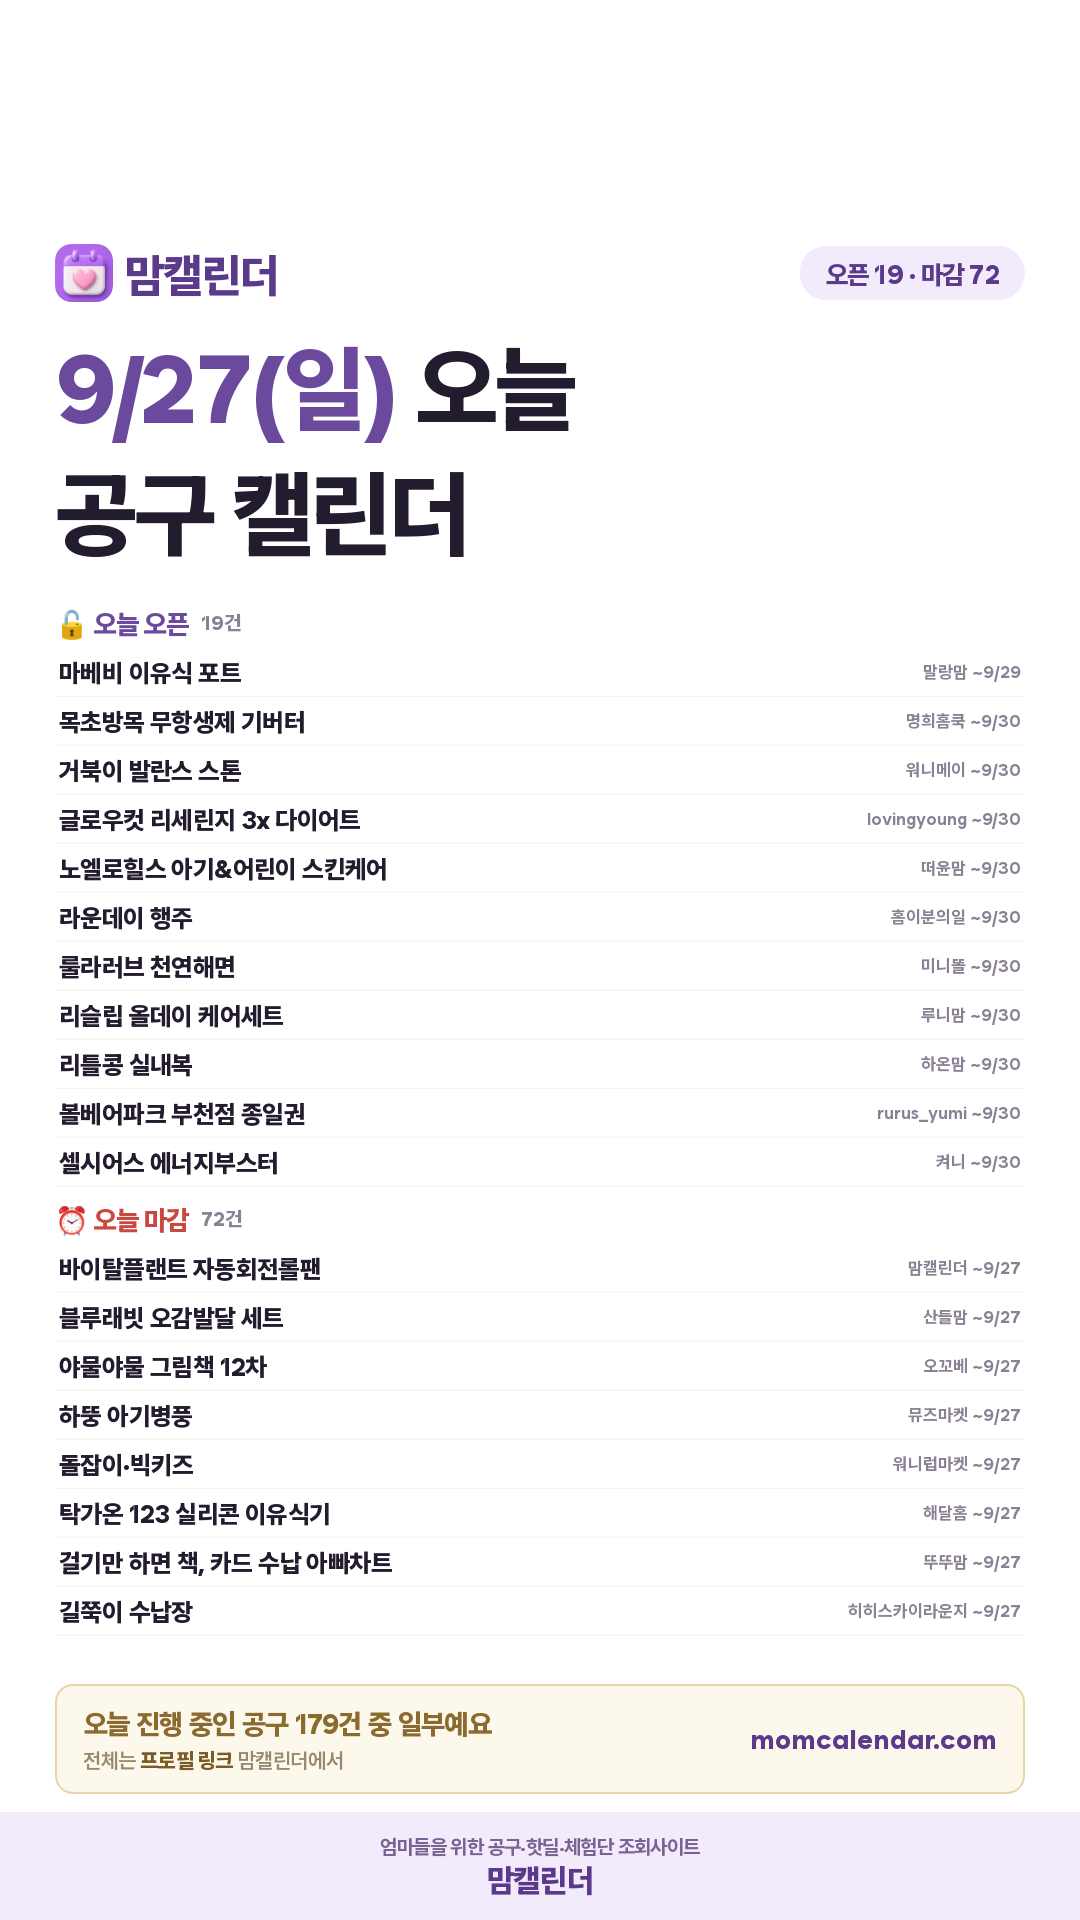
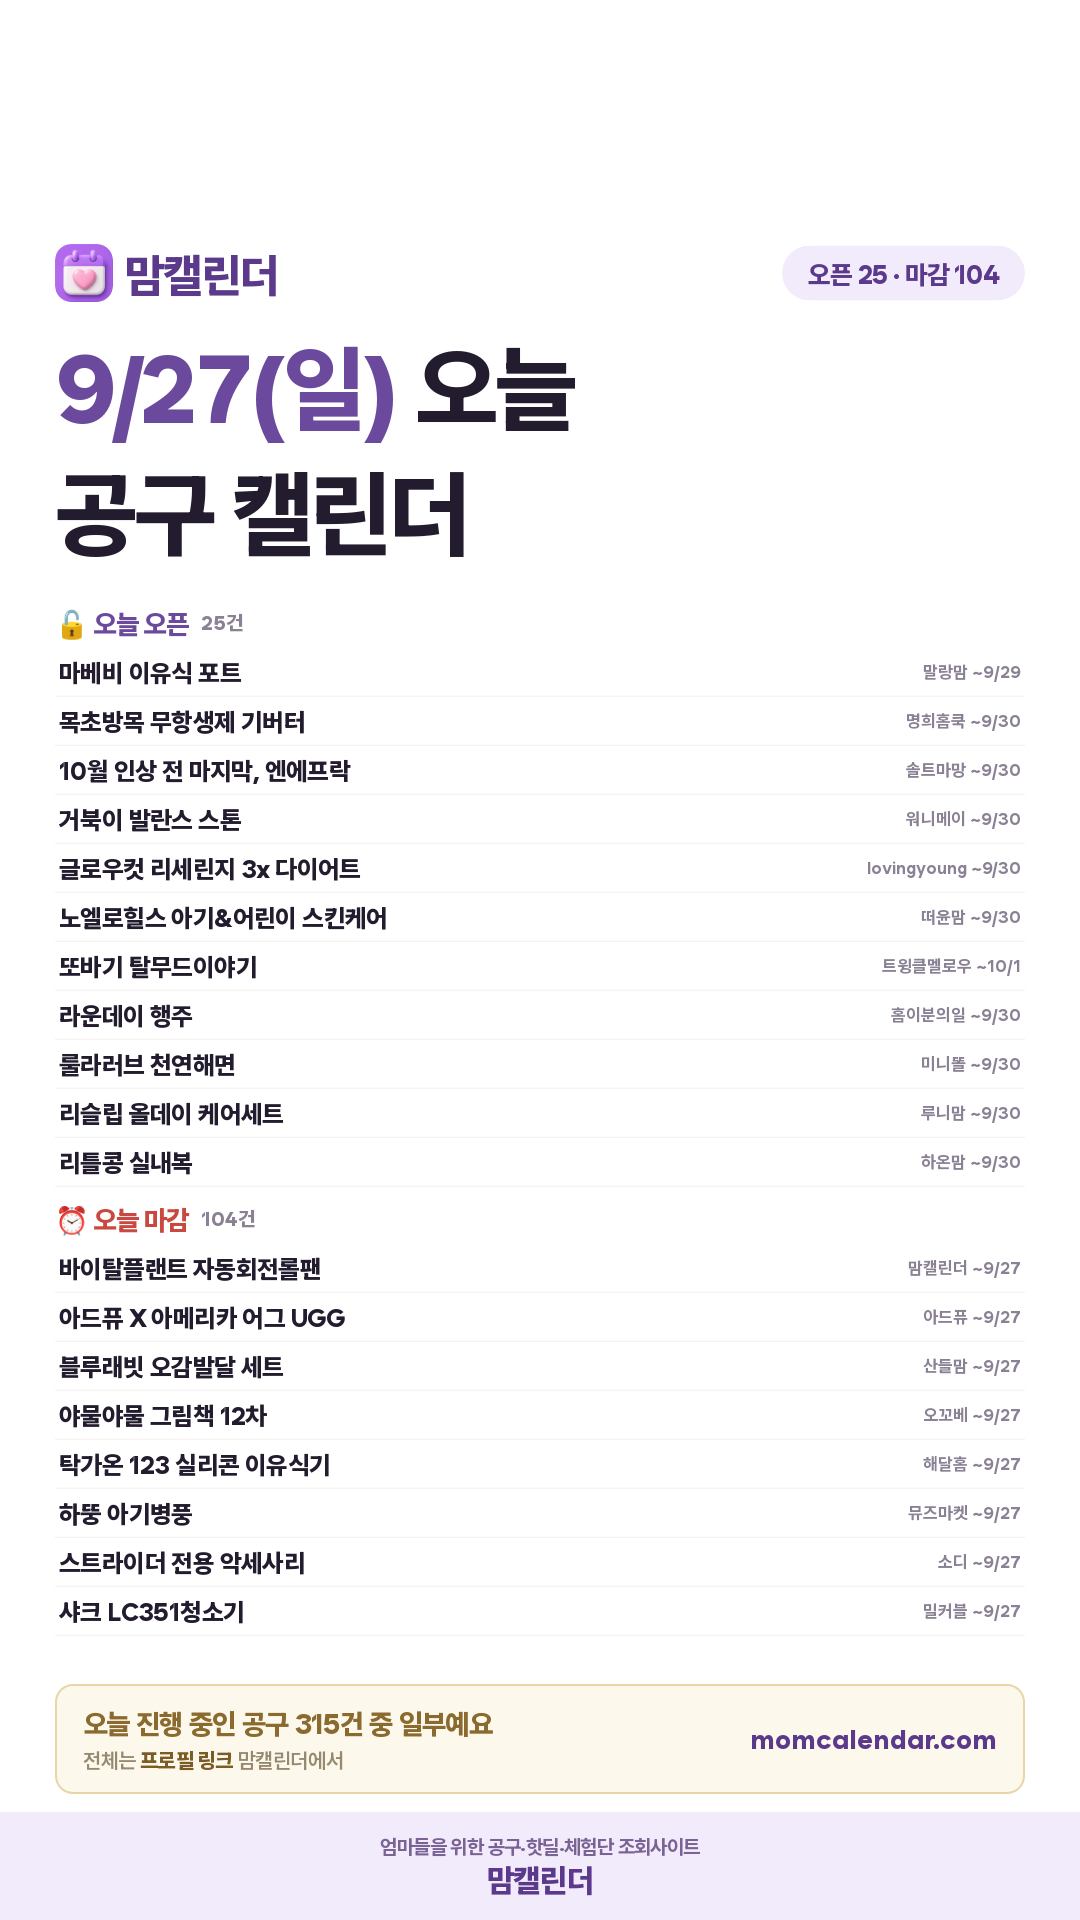
아침 인스타 카드 (2026-09-27)

diff --git a/daily/2026-09-27.html b/daily/2026-09-27.html
@@ -19,7 +19,7 @@ textarea{width:100%;height:260px;border:1px solid #E3DCEF;border-radius:10px;pad
 .todo p{font-size:12.5px;color:#6B6379;line-height:1.75;margin-top:6px}
 .todo a{color:#5B2E8C;font-weight:700}
 </style></head><body>
-<div class="hd"><div class="wrap"><h1>9월 27일(일) 인스타 카드</h1><p>리스트형 · opens 19 · ends 72</p></div></div>
+<div class="hd"><div class="wrap"><h1>9월 27일(일) 인스타 카드</h1><p>리스트형 · opens 25 · ends 104</p></div></div>
 <div class="wrap">
   
   <div class="card"><img src="./2026-09-27.png" alt="오늘 공구 카드"></div>
@@ -27,91 +27,83 @@ textarea{width:100%;height:260px;border:1px solid #E3DCEF;border-radius:10px;pad
   <div class="card">
     <textarea id="cap" readonly>바쁜 아침, 30초면 오늘 공구가 다 보여요
 
-9월 27일(일) 오픈 19건 · 마감 72건
+9월 27일(일) 오픈 25건 · 마감 104건
 
 ━━━━━━━━━━━━━━
 
 🔓 오늘 오픈
 · 마베비 이유식 포트 — 말랑맘 (~9/29)
 · 목초방목 무항생제 기버터 — 명희홈쿡 (~9/30)
+· 10월 인상 전 마지막, 엔에프락 — 솔트마망 (~9/30)
 · 거북이 발란스 스톤 — 워니메이 (~9/30)
 · 글로우컷 리세린지 3x 다이어트 — lovingyoung (~9/30)
 · 노엘로힐스 아기&amp;어린이 스킨케어 — 떠윤맘 (~9/30)
+· 또바기 탈무드이야기 — 트윙클멜로우 (~10/1)
 · 라운데이 행주 — 홈이분의일 (~9/30)
 · 룰라러브 천연해면 — 미니똘 (~9/30)
 · 리슬립 올데이 케어세트 — 루니맘 (~9/30)
 · 리틀콩 실내복 — 하온맘 (~9/30)
+· 맘노코 방풍커버 — 켈리맘 (~9/30)
 · 볼베어파크 부천점 종일권 — rurus_yumi (~9/30)
+· 세계 1등 진진스 생강캔디 3차 — 몰리짱 (~10/4)
 · 셀시어스 에너지부스터 — 켜니 (~9/30)
 · 알프비 슬로우식기 리키본 — 조던누나 (~9/30)
 · 에스테틱전용 아오와 선크림 &amp; 선에센스 — 령아홈트 (~10/2)
 · 완벽 물때 제거제 — 멋쓰랩 (~9/30)
 · 임자네 떡볶이 — 송엘라 (~9/30)
+· 키머즈 캐리어 트라이크 — 위캔드홈 (~9/30)
 · 키자니아 직업체험 입장권 — _onioni.mom (~9/30)
 · 퓨리톡스 멀티 세정 티슈 7차 — 그집1303 (~9/30)
 · 한입 샐러드 젤리 — __a.fit.__ (~10/4)
+· 허그파파 Pro — 캉캉 (~9/30)
 · 홍삼정 데일리타임 — 몽땅잡화점 (~9/30)
 
 ⏰ 오늘 마감
 · 바이탈플랜트 자동회전롤팬 — 맘캘린더 @momcal_
+· 아드퓨 X 아메리카 어그 UGG — 아드퓨 @atelier.de.purete
 · 블루래빗 오감발달 세트 — 산들맘
 · 야물야물 그림책 12차 — 오꼬베
-· 하뚱 아기병풍 — 뮤즈마켓
-· 돌잡이·빅키즈 — 워니럽마켓
 · 탁가온 123 실리콘 이유식기 — 해달홈
-· 걸기만 하면 책, 카드 수납 아빠차트 — 뚜뚜맘
-· 길쭉이 수납장 — 히히스카이라운지
+· 하뚱 아기병풍 — 뮤즈마켓
+· 스트라이더 전용 악세사리 — 소디
+· 샤크 LC351청소기 — 밀커블
 · 넘버블록스 빅북 모음전 — 미소데이즈
-· 다이치 원픽스 시즌3 에어 — 영통 베이비하우스
 · 돌잡이시리즈 — 유림
-· 브리테니커 호기심백과 — 명희홈쿡
+· 세이톡·세이펜 — 도치맘
+· 추피 한글판 — 윤윤이네
+· 다이치 원픽스 시즌3 에어 — 영통 베이비하우스
 · 비지베어 A B세트 — 누누맘
+· 세이펜 — 희아패밀리
+· 심플리티 2in1 킥보드 — 또마맘
+· 책상정리템&amp;학습트롤리 아이방 수납 기획전 — 도다미네
 · 씨밀렉스 래폴드 수납함 — 디유
+· 베이비앙 국내생산 배변팬티 — 치즈맘
+· 디어커스 더스트라 크리너 — 마리에뜰
+· 돌잡이·빅키즈 — 워니럽마켓
+· 필립스 쪽쪽이 — 희아
+· 걸기만 하면 책, 카드 수납 아빠차트 — 뚜뚜맘
+· 공룡대발이 생활동화 — 3__meow
+· 길쭉이 수납장 — 히히스카이라운지
+· 꼼베베 가을신상 — 열무맘
+· 똑서 독서대 — 종달맘
+· 브리테니커 호기심백과 — 명희홈쿡
 · 에디슨 원터치 텀블러 — 아토네
-· 프로메이드 포르티 냄새차단 휴지통 — 라라홈
-· EQ의 천재들 감성교육동화 — 온이프홈
+· 에어르 무선 청소기 (슬릭,더그램,베놈) — 풀킴
+· 주니 안전용품 모음전 — 모찌맘
+· 키머즈 캐리어 — 둥이맘앨리
 · 감비정 — double_joo
+· 경이로운 팝업북 3종 — 우니동동
 · 경추회전+승모근지압+상/중/하 거북목 견인기 — 윤지쌤
+· 곡물도자기 식판•보울•컵 — 아이러브유니
 · 곰보배추시럽 — 러블리맘
+· 국민필터 신발 세탁망 — 하봄
 · 꿈비 리코코 클립매트 — 모건맘김규콩
+· 난임치트키 저스트글로우 NMN — 남약사
 · 노히아 언더웨어 — 라두나
 · 녹십자 베르베린 인텐스 — 오늘약사
 · 담백하루 유산균 ABC — 샤인약사
-· 도조메 비쉬 체크나이프 — 맘이가요
-· 똑서 독서대 — 종달맘
-· 리큅 식품건조기 3차 — 묘식당
-· 리틀피기 가을 신상 런칭 — 두둥맘
-· 맛있는 불지 않는 잡채 — 꿀동이
-· 몬테소리 의자 — 미국이맘
-· 미야리산U 낙산균 — 달달콩
-· 바르너 EMS 미니스팟 — 사니엘블랑
-· 바스 탈취제 — 마이어홈
-· 바하소금 구강케어 — 와이블랑
-· 발틱·노르딕 씨베리 — __a.fit.__
-· 베이비앙 국내생산 배변팬티 — 치즈맘
-· 베키고구마 — 베키
-· 벨르썸 라치우드 도마 — 투찬이네
-· 비타바움 8차 — 심플리레시피
-· 빌베리 엘더베리 — 우리약사
-· 뼈 육수 — 푸드리셋
-· 샤크 LC351청소기 — 밀커블
-· 세이톡·세이펜 — 도치맘
-· 세이펜 — 희아패밀리
-· 슈메르 아기양말 — 선유맘
-· 스타우브 B품 — 리본홈
-· 스파톤 철분제 — 로제맘
-· 승천냉면 3차 — 우연
-· 심플리티 2in1 킥보드 — 또마맘
-· 아넬라 퓨레 — 건이맘
-· 어그 — 벨리맘
-· 엔에프락 — 아무르제이
-· 엔오르 29CM 가을 쇼케이스 — 킴제
-· 옴모 크레용 3차 — 맘조이
-· 워셔블 러그 — 카루셀리
-· 으뜸 배변패드 — 개엄마
-· 이스니 바이타밈 — 민들레
-· 점프업 키즈 아르기닌 — 베이지약사
-…외 14건
+· 데코아르 에어건 — 시크드
+…외 60건
 
 
 ━━━━━━━━━━━━━━
@@ -132,7 +124,7 @@ textarea{width:100%;height:260px;border:1px solid #E3DCEF;border-radius:10px;pad
 ⚠ 공구 일정은 판매자 사정에 따라 변경·조기마감될 수 있어요.
 
 #맘캘린더 #공구일정 #육아공구 #9월27일공구 #오늘의공구 #영양제 #육아템 #육아정보 #교구 #책육아 #공구오픈일정 #살림템</textarea>
-    <div class="meta">2181자</div>
+    <div class="meta">2170자</div>
     <button class="btn btn2" onclick="cp('cap','캡션')">캡션 복사</button>
   </div>
   <div class="card">
@@ -164,25 +156,31 @@ https://open.kakao.com/o/gr2kJhCh
 
 ─────────────
 
-9월 27일(일) 공구 일정이에요. 오늘 오픈하는 19건을 한 번에 모았어요.
-마감이 오늘인 공구도 98건 있어요. 담아두셨다면 서두르셔야 해요.
+9월 27일(일) 공구 일정이에요. 오늘 오픈하는 25건을 한 번에 모았어요.
+마감이 오늘인 공구도 140건 있어요. 담아두셨다면 서두르셔야 해요.
 
-■ 오늘 시작하는 공구 19건
+■ 오늘 시작하는 공구 25건
 
 [육아]
 · 거북이 발란스 스톤 — 워니메이 (~9/30 마감)
 · 노엘로힐스 아기&amp;어린이 스킨케어 — 떠윤맘 (~9/30 마감)
+· 또바기 탈무드이야기 — 트윙클멜로우 (~10/1 마감)
 · 리틀콩 실내복 — 하온맘 (~9/30 마감)
 · 마베비 이유식 포트 — 말랑맘 (~9/29 마감)
+· 키머즈 캐리어 트라이크 — 위캔드홈 (~9/30 마감)
+· 허그파파 Pro — 캉캉 (~9/30 마감)
 
 [리빙]
+· 10월 인상 전 마지막, 엔에프락 — 솔트마망 (~9/30 마감)
 · 라운데이 행주 — 홈이분의일 (~9/30 마감)
 · 룰라러브 천연해면 — 미니똘 (~9/30 마감)
+· 맘노코 방풍커버 — 켈리맘 (~9/30 마감)
 · 완벽 물때 제거제 — 멋쓰랩 (~9/30 마감)
 · 퓨리톡스 멀티 세정 티슈 7차 — 그집1303 (~9/30 마감)
 
 [식품]
 · 목초방목 무항생제 기버터 — 명희홈쿡 (~9/30 마감)
+· 세계 1등 진진스 생강캔디 3차 — 몰리짱 (~10/4 마감)
 · 임자네 떡볶이 — 송엘라 (~9/30 마감)
 · 한입 샐러드 젤리 — __a.fit.__ (~10/4 마감)
 
@@ -202,35 +200,53 @@ https://open.kakao.com/o/gr2kJhCh
 [반려동물]
 · 알프비 슬로우식기 리키본 — 조던누나 (~9/30 마감)
 
-■ 오늘 마감하는 공구 98건
+■ 오늘 마감하는 공구 140건
 · AGK 노르딕 멀티 3종 밀폐용기 — 햇림
 · Amoo 킥보드 가방 — 또마맘
 · EQ의 천재들 감성교육동화 — 온이프홈
+· NUVY 누비 고급형 미니스트라이크 — 축복맘
 · 감비정 — double_joo
 · 걸기만 하면 책, 카드 수납 아빠차트 — 뚜뚜맘
+· 경이로운 팝업북 3종 — 우니동동
 · 경추회전+승모근지압+상/중/하 거북목 견인기 — 윤지쌤
-· 곰보배추시럽 — 러블리맘
+· 곡물도자기 식판•보울•컵 — 아이러브유니
 · 곰보배추시럽 — 워니럽마켓
+· 곰보배추시럽 — 러블리맘
+· 공룡 대발이 생활동화 — 리틀혀니
+· 공룡대발이 생활동화 — 3__meow
+· 공룡대발이 생활동화 — 리로네
+· 국민필터 신발 세탁망 — 하봄
 · 길쭉이 수납장 — 히히스카이라운지
+· 꼼베베 가을신상 — 열무맘
 · 꿈비 리코코 클립매트 — 모건맘김규콩
+· 난임치트키 저스트글로우 NMN — 남약사
 · 넘버블록스 빅북 모음전 — 미소데이즈
 · 노히아 언더웨어 — 라두나
 · 녹십자 베르베린 인텐스 — 오늘약사
 · 다이치 원픽스 시즌3 에어 — 영통 베이비하우스
 · 담백하루 유산균 ABC — 샤인약사
 · 더블핏 유산균 — 자신있는약상담
+· 데코아르 에어건 — 시크드
 · 도조메 비쉬 체크나이프 — 맘이가요
 · 돌잡이 &amp; 빅키즈 — 송엘라
 · 돌잡이 시리즈 — 이나마미
+· 돌잡이 시리즈 — 하온맘
 · 돌잡이 전집 시리즈 — 뮤즈마켓
 · 돌잡이 전집 시리즈 — 뮤즈언니
 · 돌잡이·빅키즈 — 워니럽마켓
 · 돌잡이시리즈 — 유림
+· 디어커스 더스트라 크리너 — 마리에뜰
+· 또바기 10권 1만원대｜3종 — 수니점빵
 · 똑서 독서대 — 종달맘
+· 라꽁비에뜨 무염&amp;가염버터 — 또후니맘
 · 락피도 롱앤키 — 송엘라
+· 로마 유기농 비건 샴푸&amp;린스 — 묘약사
 · 리큅 식품건조기 3차 — 묘식당
 · 리틀피기 가을 신상 런칭 — 두둥맘
 · 맛있는 불지 않는 잡채 — 꿀동이
+· 매트싹싹 — 홈앤홈
+· 모션쇼파 2차 — 수지살림
+· 목초우 미틀리 비프칩, 유기농 파오리 — 하람
 · 몬테소리 의자 — 미국이맘
 · 몬테소리매쓰 — 온이프홈
 · 미야리산U 낙산균 — 달달콩
@@ -246,28 +262,39 @@ https://open.kakao.com/o/gr2kJhCh
 · 벨르썸 라치우드 도마 — 투찬이네
 · 브리테니커 호기심백과 — 명희홈쿡
 · 블루래빗 오감발달 세트 — 산들맘
+· 비릴리가 초임계오메가3 — 위키약사
 · 비지베어 A B세트 — 누누맘
 · 비타바움 8차 — 심플리레시피
 · 빌베리 엘더베리 — 우리약사
 · 뼈 육수 — 푸드리셋
 · 샤크 LC351청소기 — 밀커블
+· 샤크 닌자 에프 — 요정엄마
 · 세이톡·세이펜 — 도치맘
 · 세이펜 — 희아패밀리
 · 슈메르 아기양말 — 선유맘
+· 슈슈비 클립매트 인상 전 — 남다름
 · 슈퍼세이브 곰보배추시럽 — 친절마켓
+· 스미노도마 — 밀커블
 · 스타우브 B품 — 리본홈
+· 스트라이더 전용 악세사리 — 소디
 · 스파톤 철분제 — 로제맘
 · 승천냉면 3차 — 우연
 · 시매쓰 — 송엘라
 · 심플리티 2in1 킥보드 — 또마맘
+· 쌀보리 상하복 — 오늘도 육아 공구
 · 씨밀렉스 래폴드 수납함 — 디유
 · 아넬라 퓨레 — 건이맘
 · 아넬라 퓨레 특별 프로모션 — 수니점빵
+· 아드퓨 X 아메리카 어그 UGG — 아드퓨
+· 아산 스파포레&amp;스파비스 — 로니맘(kikimi)
 · 아티바바 실리콘블럭 전제품 — 김밀키
+· 알텐바흐 메이우드 — 마리에뜰
 · 야물야물 그림책 12차 — 오꼬베
 · 야물야물 생활동화 — eeodlf
 · 어그 — 벨리맘
+· 에끌 모달 실내복 — 장소정
 · 에디슨 원터치 텀블러 — 아토네
+· 에어르 무선 청소기 (슬릭,더그램,베놈) — 풀킴
 · 엔에프락 — 아무르제이
 · 엔오르 29CM 가을 쇼케이스 — 킴제
 · 엘레나 유산균 — 린쥬하니
@@ -275,36 +302,49 @@ https://open.kakao.com/o/gr2kJhCh
 · 옴모 베이비 크레용 — 워니럽마켓
 · 옴모 크레용 3차 — 맘조이
 · 워셔블 러그 — 카루셀리
+· 원마운트 워터파크 — eeodlf
 · 위드잇 아이카레/아이짜장 — 명희홈쿡
 · 으뜸 배변패드 — 개엄마
 · 이스니 바이타밈 — 민들레
+· 일본 마나 기획전 — 헬룸
 · 점프업 키즈 아르기닌 — 베이지약사
+· 접이식 식기건조대 — 유누맘
+· 제작 슈즈 — song_rina
 · 주니 기저귀팬티 — 애프리
 · 주니 안전용품 모음전 — 모찌맘
 · 주니 텀블러 — 온그리
 · 쥬비렉스 아이백 리프트 샷 크림 — 하이킴약사
 · 책상정리템&amp;학습트롤리 아이방 수납 기획전 — 도다미네
+· 청바지&amp;트위드자켓 — song_rina
+· 추피 한글판 — 윤윤이네
 · 추피의 생활이야기 한글판 — 서점맘
 · 카시트는 '눕는 각도'가 핵심 — 영통 베이비하우스
+· 콕콕콕 사운드북 — 따리따리
 · 키머즈 캐리어 — 둥이맘앨리
 · 탁가온 123 실리콘 이유식기 — 해달홈
+· 테디후드롱퍼 3color — 키키하우스
 · 트로마츠 미세전류 칫솔 — 엄마로라
+· 트루엔 키즈 아르기닌 — 베이지약사
 · 트리플쿨링 마그네슘 — 도비약사
 · 파스텔버블 고쟁이 후드 셋업 — 도아네
 · 파이토블락 덴티백아이 — 뮤즈언니
 · 파이토블락·덴티백아이 — 뮤즈마켓
+· 패밀리 사계절파자마 26가을신상 — 책육아 우주맘
 · 푸꾸옥 4대 호텔 프로젝트 — 준성담
 · 프로메이드 포르티 냄새차단 휴지통 — 라라홈
 · 픽토리 감정 6종 — 소프트모노
-· 필립스 쪽쪽이 — 희아패밀리
 · 필립스 쪽쪽이 — 희아
+· 필립스 쪽쪽이 — 희아패밀리
 · 하뚱 아기병풍 — 뮤즈마켓
 · 하뚱 아기병풍 — 뮤즈언니
+· 하렘팬츠 — 껀미언니
+· 하베브릭스 과일자르기+샌드토이 — 서노
+· 환절기 기관지 관리, 만성비염 관리, 세븐브레스 — 션마미마켓
 · 훈민 스티커북 — 콩알픽
 
 ※ 정확한 구성·가격은 셀러 공지 기준이에요. 이 글은 일정 모음이라 참고용으로 봐주세요.
 
-#공구일정 #인스타공구 #인스타공구일정 #공동구매 #오늘의공구 #육아공구 #육아템 #공구모음 #글로우컷공구 #리슬립공구 #셀시어스공구 #홍삼정공구 #라운데이공구 #룰라러브공구 #완벽공구 #퓨리톡스공구</textarea>
+#공구일정 #인스타공구 #인스타공구일정 #공동구매 #오늘의공구 #육아공구 #육아템 #공구모음 #글로우컷공구 #리슬립공구 #셀시어스공구 #홍삼정공구 #라운데이공구 #룰라러브공구 #맘노코공구 #완벽공구</textarea>
     <button class="btn" onclick="cp('bbody','블로그 본문 전체')">블로그 본문 전체 복사 (태그 포함)</button>
     <div class="meta">순서: 사진 저장 → 블로그 앱 글쓰기 → 제목 붙여넣기 → 본문 붙여넣기 → 본문 맨 위에 사진 추가 → 발행. 끝의 #태그들은 자동으로 태그가 돼요</div>
   </div>

diff --git a/daily/today.html b/daily/today.html
@@ -1,15 +1,15 @@
 <!DOCTYPE html><html lang="ko"><head>
 <meta charset="UTF-8"><meta name="viewport" content="width=device-width,initial-scale=1">
 <meta name="robots" content="noindex,nofollow">
-<title>9/26(토) 오늘 공구 캘린더</title>
-<meta property="og:title" content="9/26(토) 오늘 공구 캘린더">
-<meta property="og:image" content="https://momcalendar.com/daily/today.png?v=2026-09-26">
+<title>9/27(일) 오늘 공구 캘린더</title>
+<meta property="og:title" content="9/27(일) 오늘 공구 캘린더">
+<meta property="og:image" content="https://momcalendar.com/daily/today.png?v=2026-09-27">
 <style>body{margin:0;background:#F6F4F9;font-family:-apple-system,BlinkMacSystemFont,'Apple SD Gothic Neo','Malgun Gothic',sans-serif;text-align:center}
 h1{font-size:17px;color:#4A1A78;padding:14px 0 10px;margin:0}
 img{width:100%;max-width:540px;display:block;margin:0 auto;border-radius:12px;box-shadow:0 2px 12px rgba(96,32,144,.12)}
 p{font-size:12.5px;color:#8A8A8A;padding:12px}</style></head><body>
 <p style="margin:0;padding:10px 14px;background:#FFE9E9;color:#B3261E;font-size:13px;font-weight:700;line-height:1.5">⚠ 🔴 사이트 오류 레이더 1건: 우회로 중 서버5xx 1h 0·24h 2 — 세션에서 select * from error_radar()</p>
-<h1>9/26(토) 오늘 공구 캘린더</h1>
-<img src="./today.png?v=1790383894472" alt="9/26(토) 오늘 공구 캘린더">
+<h1>9/27(일) 오늘 공구 캘린더</h1>
+<img src="./today.png?v=1790470276705" alt="9/27(일) 오늘 공구 캘린더">
 <p>매일 아침 자동으로 새로 그려집니다 · <a href="https://momcalendar.com">맘캘린더</a></p>
 </body></html>

diff --git a/daily/index.html b/daily/index.html
@@ -1,1 +1,1 @@
-<!DOCTYPE html><meta charset="UTF-8"><meta http-equiv="refresh" content="0;url=./2026-09-26.html">
+<!DOCTYPE html><meta charset="UTF-8"><meta http-equiv="refresh" content="0;url=./2026-09-27.html">
